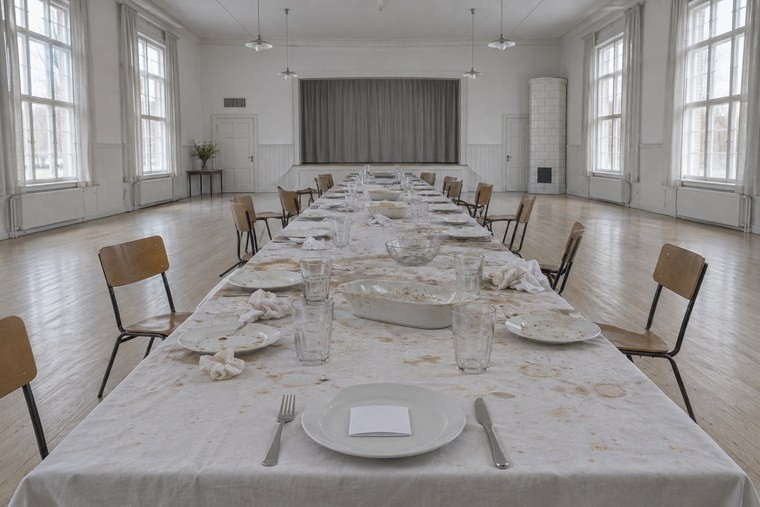
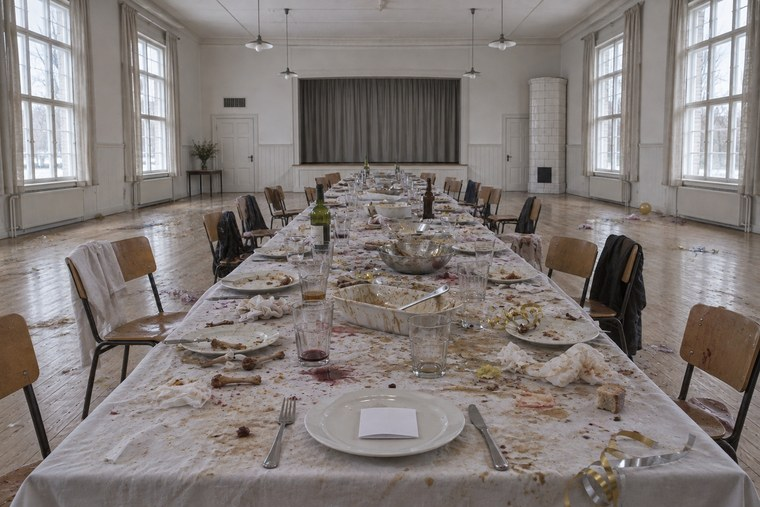
post28: kuva vaihdettu (juhlien jälkeinen pöytä), alt-tekstit (FI + EN)

diff --git a/index.html b/index.html
@@ -237,7 +237,7 @@
     <p class="page-sub" style="margin-bottom:1.2rem">Uusimmat kirjoitukset</p>
     <div class="home-grid">
       <div class="home-grid-item" tabindex="0" role="link" data-nap onclick="showPage('blog', true); openPost('post28')">
-        <img class="home-grid-img" decoding="async" width="760" height="507" src="Kuvat/post28-suhteellinen-aanenpaino.jpg" alt="Kuvituskuva, teko&auml;lyn tuottama: pitk&auml; juhlap&ouml;yt&auml; tyhj&auml;ss&auml; seurantalossa aterian j&auml;lkeen, tyhjiksi kaavitut lautaset ja juodut lasit, l&auml;himp&auml;n&auml; yksi koskematon kattaus, jonka lautasella on taitettu paperilappu">
+        <img class="home-grid-img" decoding="async" width="760" height="507" src="Kuvat/post28-suhteellinen-aanenpaino.jpg" alt="Kuvituskuva, teko&auml;lyn tuottama: pitk&auml; juhlap&ouml;yt&auml; tyhj&auml;ss&auml; seurantalossa juhlien j&auml;lkeen, tahrainen p&ouml;yt&auml;liina, ruoant&auml;hteit&auml;, tyhji&auml; pulloja ja serpentiini&auml;, l&auml;himp&auml;n&auml; yksi puhdas kattaus, jonka lautasella on taitettu paperilappu">
         <div class="home-grid-body">
           <div class="home-grid-meta">14.11.2026 &middot; Yhteiskunta</div>
           <div class="home-grid-title">Suhteellinen &auml;&auml;nenpaino</div>
@@ -448,7 +448,7 @@
       <button class="back-btn" onclick="backToList()">&larr; Kaikki kirjoitukset</button>
       <h2 class="post-full-title">Suhteellinen &auml;&auml;nenpaino</h2>
       <div class="post-full-meta">14.11.2026 &middot; Yhteiskunta &middot; tuomaskuusisto.fi/#suhteellinen-aanenpaino</div>
-      <img class="post-image" loading="lazy" decoding="async" width="760" height="507" src="Kuvat/post28-suhteellinen-aanenpaino.jpg" alt="Kuvituskuva, teko&auml;lyn tuottama: pitk&auml; juhlap&ouml;yt&auml; tyhj&auml;ss&auml; seurantalossa aterian j&auml;lkeen, tyhjiksi kaavitut lautaset ja juodut lasit, l&auml;himp&auml;n&auml; yksi koskematon kattaus, jonka lautasella on taitettu paperilappu">
+      <img class="post-image" loading="lazy" decoding="async" width="760" height="507" src="Kuvat/post28-suhteellinen-aanenpaino.jpg" alt="Kuvituskuva, teko&auml;lyn tuottama: pitk&auml; juhlap&ouml;yt&auml; tyhj&auml;ss&auml; seurantalossa juhlien j&auml;lkeen, tahrainen p&ouml;yt&auml;liina, ruoant&auml;hteit&auml;, tyhji&auml; pulloja ja serpentiini&auml;, l&auml;himp&auml;n&auml; yksi puhdas kattaus, jonka lautasella on taitettu paperilappu">
       <div class="post-body">
         <p>T&auml;m&auml; ei ole sukupolvikeskustelu. Keskustelu edellytt&auml;&auml;, ett&auml; osapuolilla on yhteinen p&auml;&auml;m&auml;&auml;r&auml; ja erimielisyys koskee vain keinoja. Nuoremmilla ja vanhemmilla sukupolvilla yhteist&auml; p&auml;&auml;m&auml;&auml;r&auml;&auml; ei ole. Suuret ik&auml;luokat ehtiv&auml;t p&ouml;yt&auml;&auml;n ensimm&auml;isin&auml;, s&ouml;iv&auml;t sen tyhj&auml;ksi ja j&auml;tt&auml;v&auml;t laskun seuraaville. Kun nuoremmat yritt&auml;v&auml;t muuttaa asiaa vaaleissa, heid&auml;t &auml;&auml;nestet&auml;&auml;n kumoon. Siksi tarvitaan uudet s&auml;&auml;nn&ouml;t.</p>
         <p><strong>Syytekirjelm&auml;</strong></p>

diff --git a/en/index.html b/en/index.html
@@ -237,7 +237,7 @@
     <p class="page-sub" style="margin-bottom:1.2rem">Latest writings</p>
     <div class="home-grid">
       <div class="home-grid-item" tabindex="0" role="link" data-nap onclick="showPage('blog', true); openPost('post28')">
-        <img class="home-grid-img" decoding="async" width="760" height="507" src="../Kuvat/post28-suhteellinen-aanenpaino.jpg" alt="Illustration, AI-generated: a long banquet table in an empty community hall after a meal, plates scraped clean and glasses drained, with one untouched place setting and a folded slip of paper on the plate nearest the camera">
+        <img class="home-grid-img" decoding="async" width="760" height="507" src="../Kuvat/post28-suhteellinen-aanenpaino.jpg" alt="Illustration, AI-generated: a long banquet table in an empty community hall after a party, a stained tablecloth, leftovers, empty bottles and streamers, with one clean place setting and a folded slip of paper on the plate nearest the camera">
         <div class="home-grid-body">
           <div class="home-grid-meta">November 14, 2026 &middot; Society</div>
           <div class="home-grid-title">Proportional vote weight</div>
@@ -445,7 +445,7 @@
       <button class="back-btn" onclick="backToList()">&larr; All writings</button>
       <h2 class="post-full-title">Proportional vote weight</h2>
       <div class="post-full-meta">November 14, 2026 &middot; Society &middot; tuomaskuusisto.fi/en/#suhteellinen-aanenpaino</div>
-      <img class="post-image" loading="lazy" decoding="async" width="760" height="507" src="../Kuvat/post28-suhteellinen-aanenpaino.jpg" alt="Illustration, AI-generated: a long banquet table in an empty community hall after a meal, plates scraped clean and glasses drained, with one untouched place setting and a folded slip of paper on the plate nearest the camera">
+      <img class="post-image" loading="lazy" decoding="async" width="760" height="507" src="../Kuvat/post28-suhteellinen-aanenpaino.jpg" alt="Illustration, AI-generated: a long banquet table in an empty community hall after a party, a stained tablecloth, leftovers, empty bottles and streamers, with one clean place setting and a folded slip of paper on the plate nearest the camera">
       <div class="post-body">
         <p>This is not a debate between generations. A debate assumes the two sides share a goal and disagree only about the means. The younger and older generations share no such goal. The baby boomers got to the table first, ate it clean and are leaving the bill to those who come after. When the younger generations try to change this at the ballot box, they are outvoted. That is why new rules are needed.</p>
         <p><strong>The indictment</strong></p>
